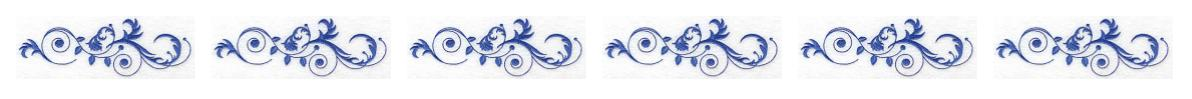
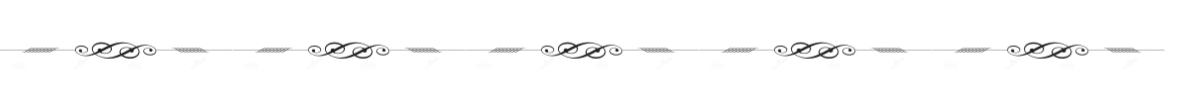
Updated visual style of website homepage

Changed region(s): [[0.0, 0.1818, 0.9933, 0.7879]]

diff --git a/index.html b/index.html
@@ -5,10 +5,8 @@
     <meta charset="utf-8">
 
       <title>PoliFix</title>
-      <meta name="description" content="The HTML5 Herald">
-      <meta name="author" content="SitePoint">
 
-      <link rel="stylesheet" href="css/styles.css?v=1.0">
+      <link rel="stylesheet" type-"text/css" href="stylesheet.css">
 
   <!--[if lt IE 9]>
     <script src="https://cdnjs.cloudflare.com/ajax/libs/html5shiv/3.7.3/html5shiv.js"></script>
@@ -17,22 +15,22 @@
 
   <body>
     <script src="js/scripts.js"></script>
-    <div>
-      <h1>
-        PoliFix
-      </h1>
-      <h3>
+    <div id="name">
+      <p>
+        <a href="" style="font-size: 50px; color: LightSlateGray">PoliFix</a>
+      </p>
+      <p id="slogan">
         Promoting Honesty in Politics
-      </h3>
+      </p>
     </div>
     <div>
       <img src="cap.JPG">
     </div>
-    <div>
+    <div id="description">
       <h4>
         What is PoliFix?
       </h4>
-      <p>
+      <p id="descrip">
         PoliFix is a honesty-geared platform for interaction between politicians and their constituents.
         PoliFix gives a voice to all in the community, regardless of race, gender, social class, etc. To promote political
         awareness, citizens can anonymously vote on polls, participate in topic discussions, and view the accountability
@@ -42,6 +40,46 @@
     </div>
     <div>
       <img src="SheHacks Decal.jpg">
+    </div>
+    <div>
+      <table style="width:100%">
+        <tr>
+          <th>Log In</th>
+          <th>Sign Up</th>
+        </tr>
+        <tr>
+          <td style="width:50%">
+            <p>Already have an account? Sign in here!</p>
+            <form action="LogIn.java">
+            <fieldset id="logInInfo">
+              Username
+              <input type="text" value="Enter Username"><br>
+              Password&nbsp;
+              <input type="text" value="Enter Password"><br>
+            </fieldset>
+            <input type="submit">
+          </form>
+          </td>
+          <td>
+            <p>Don't have an account? Make one here!</p>
+            <form action="SignUp.java">
+              <fieldset id="citizen">Are you a resident of the United States (a.k.a. a Citizen)?<br>
+                <input type="button" value="I'm a Citizen!"><br>
+              </fieldset>
+              <fieldset id="politician">Are you a member of the legistlative branch in the U.S. government (a.k.a. a Politician)?<br>
+                <input type="button" value="I'm a Politician!"><br>
+              </fieldset>
+            </form>
+          </td>
+        </tr>
+      </table>
+    </div>
+    <div>
+      <p><a href="">About Us</a></p>
+      <p><a href="">FAQ</a></p>
+      <p><a href="">Contact Us</a></p>
+      <p><a href=""></a></p>
+
     </div>
   </body>
 </html>

diff --git a/stylesheet.css b/stylesheet.css
@@ -1,0 +1,56 @@
+table {
+  	background: LightSkyBlue;
+}
+
+#description {
+  	background: LightSkyBlue;
+}
+
+#name {
+  text-decoration: none;
+  color: SlateGray;
+  background: LightSkyBlue;
+}
+
+#slogan {
+  color: White;
+  font-size: 20px;
+}
+
+div {
+  padding: 10px;
+}
+
+fieldset{
+  text-decoration: none;
+  decoration: none;
+  border-color: LightSkyBlue;
+}
+
+a {
+  text-decoration: none;
+  font-size: 
+}
+
+h4 {
+  color: SlateGray;
+  font-size: 30px;
+}
+
+th {
+  color: SlateGray;
+  font-size: 30px;
+}
+
+form{
+    color: White;
+}
+
+input {
+  color: LightSkyBlue;
+}
+
+#descrip {
+  color: White;
+  line-height: 2;
+}
